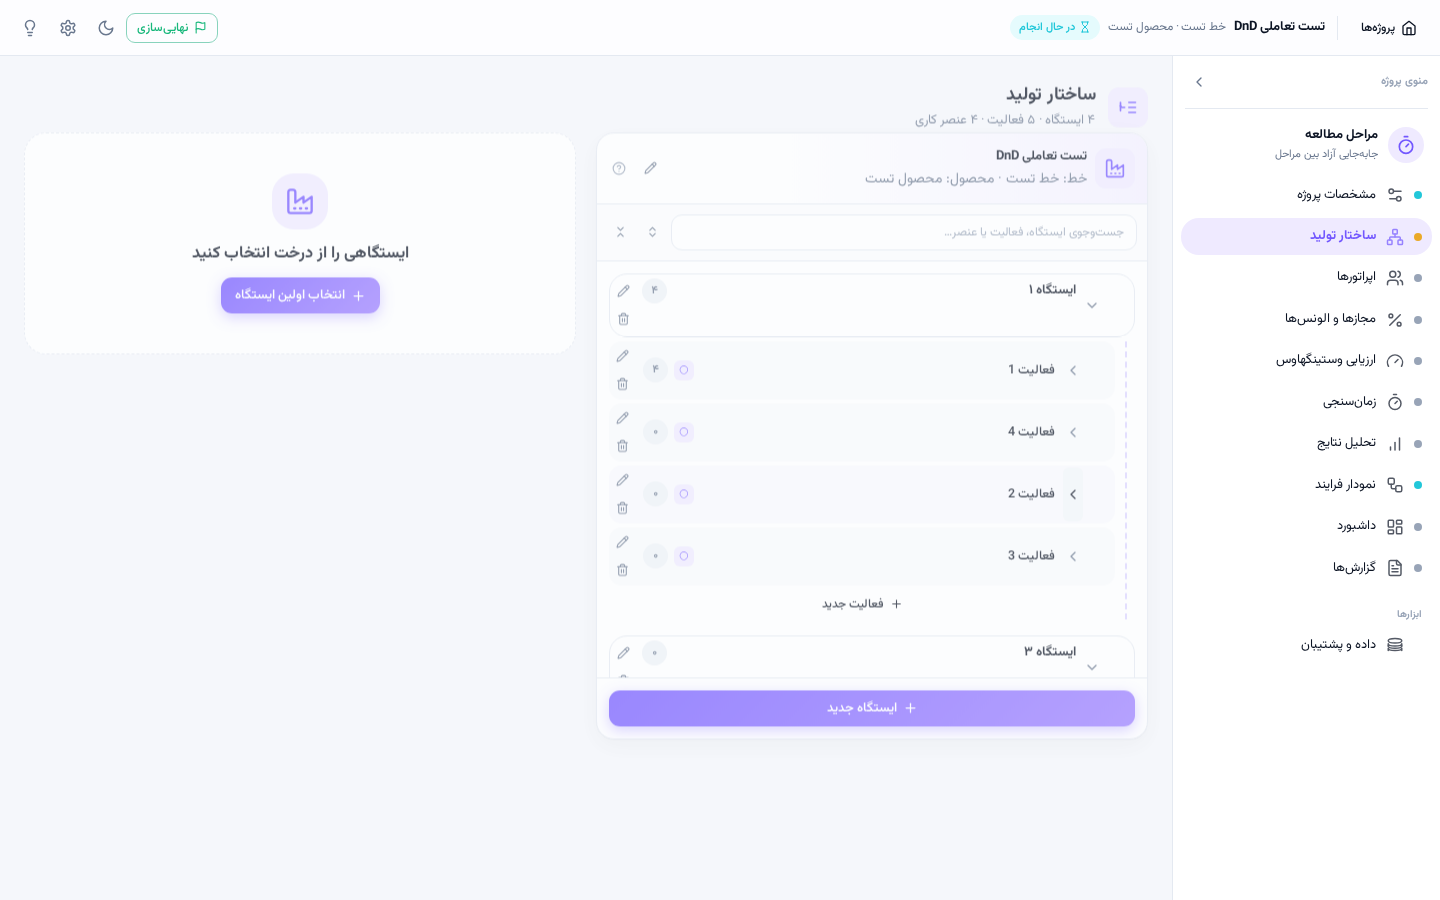
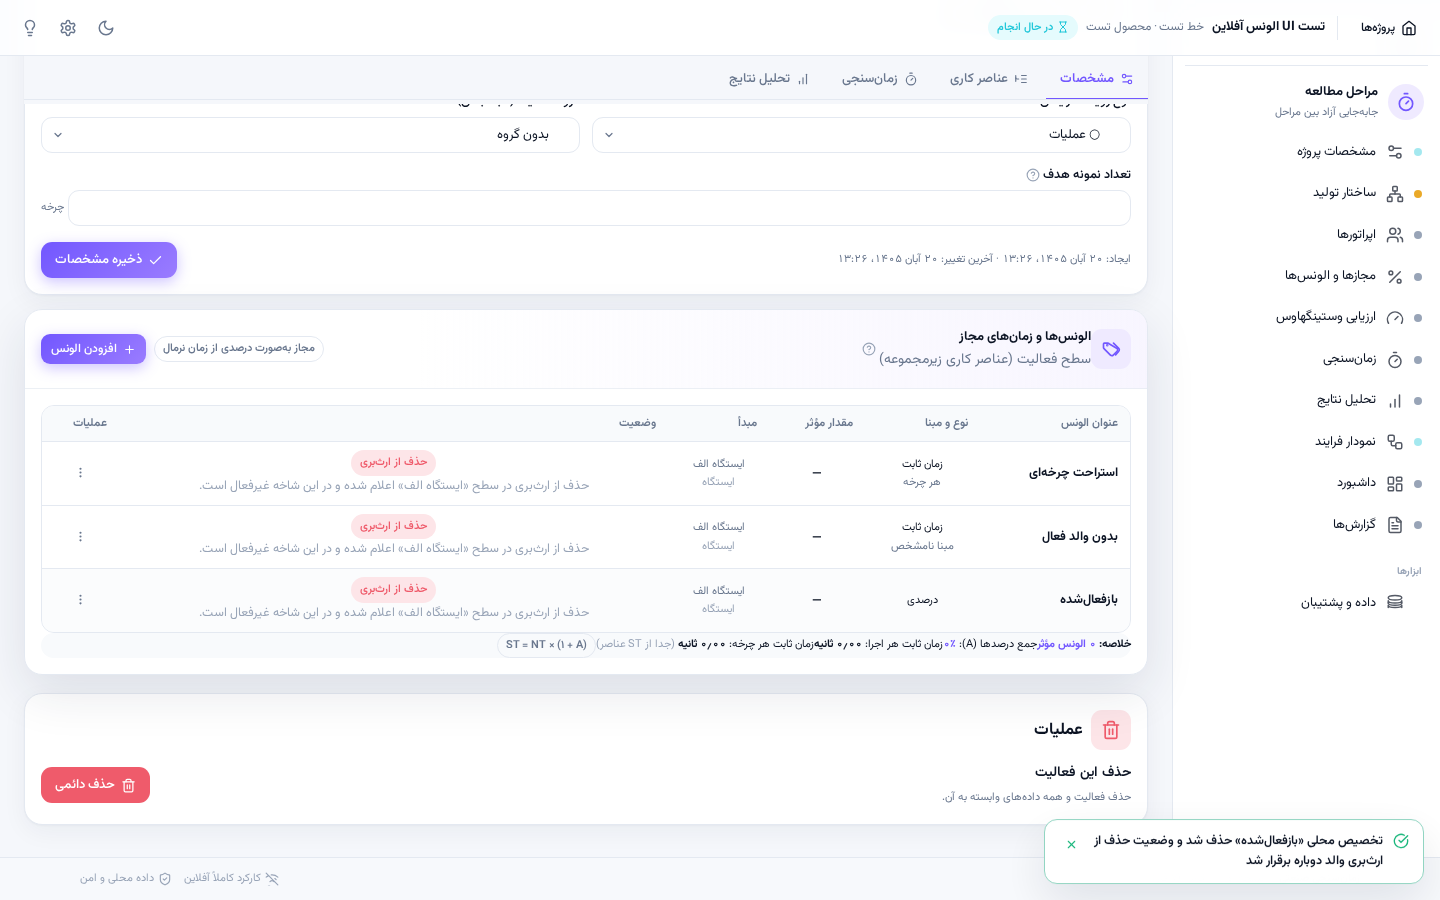
تست تعاملی DnD: بخش D9 — راستیآزمایی DOM آفلاین برچسب مبنا و متن Restore (۶۰ آزمون)

diff --git a/scripts/test-dnd-interactive.js b/scripts/test-dnd-interactive.js
@@ -19,6 +19,8 @@
      D7  حفظ ترتیب پس از Refresh کامل صفحه
      D8  رفتار درست در زمان فعال بودن جستوجو (§۴):
          قفل سه سطح + راهنما + بدون sortOrder تکراری + بازگشت ترتیب
+     D9  UI آفلاین الونسها (§۳/§۵): برچسب مبنا در ردیفهای EXCLUDED
+         (هر چرخه / مبنا نامشخص) + متن منوی Restore والد-EXCLUDE + اجرای آن
 
    نکته: بین بخشها «بازچینش آزمایشی» فقط ابزار setup است (مثل ساخت fixture)؛
    خود سناریوها و Assertionها صرفاً با رویدادهای واقعی مرورگر اجرا میشوند.
@@ -451,6 +453,80 @@ const sleep = (ms) => new Promise((r) => setTimeout(r, ms));
     await gotoStructure();
     const afterReload = await orderOf('station');
     ok(JSON.stringify(afterReload) === JSON.stringify(final), 'D8n. ترتیب پس از Refresh مجدد نیز پایدار است', afterReload.map((id) => fx.stations.indexOf(id) + 1));
+  }
+
+  // ═══ D9 — UI آفلاین: برچسب مبنا EXCLUDED + متن Restore (§۳/§۵) ═══
+  console.log('\n── D9 UI آفلاین الونسها — مبنا و متن Restore ──');
+  {
+    // fixture: والد PER_CYCLE → EXCLUDE؛ بدون والد (پیشفرض مرکزی) → EXCLUDE؛ والد EXCLUDE + فرزند SET
+    const alw = await page.evaluate(() => {
+      const p = T2DB.createProject({ name: 'تست UI الونس آفلاین', lineName: 'خط تست', productName: 'محصول تست' });
+      const pid = p.id ?? p.project?.id;
+      const s = T2DB.createStation(pid, { name: 'ایستگاه الف' });
+      const sid = s.id ?? s.station?.id;
+      const a = T2DB.createActivity(sid, { name: 'فعالیت الف' });
+      const aid = a.id ?? a.activity?.id;
+      const mk = (r) => r.id ?? r.definition?.id;
+      const d1 = mk(T2DB.createAllowanceDefinition(pid, { title: 'استراحت چرخهای', defaultValueType: 'FIXED_TIME', defaultTimeSeconds: 300, isActive: true, sortOrder: 0 }));
+      const d2 = mk(T2DB.createAllowanceDefinition(pid, { title: 'بدون والد فعال', defaultValueType: 'FIXED_TIME', defaultTimeSeconds: 20, isActive: true, sortOrder: 1 }));
+      const d3 = mk(T2DB.createAllowanceDefinition(pid, { title: 'بازفعالشده', defaultValueType: 'PERCENT', defaultValuePercent: 0.05, isActive: true, sortOrder: 2 }));
+      return { pid, sid, aid, d1, d2, d3 };
+    });
+    await page.evaluate((f) => {
+      T2DB.putScopeAllowanceOps('PROJECT', f.pid, [
+        { definitionId: f.d1, action: 'SET', valueType: 'FIXED_TIME', timeValueSeconds: 300, applicationBasis: 'PER_CYCLE' },
+        { definitionId: f.d3, action: 'SET', valueType: 'PERCENT', percentValue: 0.05 },
+      ]);
+      T2DB.putScopeAllowanceOps('STATION', f.sid, [
+        { definitionId: f.d1, action: 'EXCLUDE' },
+        { definitionId: f.d2, action: 'EXCLUDE' },
+        { definitionId: f.d3, action: 'EXCLUDE' },
+      ]);
+      T2DB.putScopeAllowanceOps('ACTIVITY', f.aid, [
+        { definitionId: f.d3, action: 'SET', valueType: 'PERCENT', percentValue: 0.07 },
+      ]);
+    }, alw);
+
+    await page.evaluate((h) => { location.hash = h; }, '#/p/' + alw.pid + '/activity/' + alw.aid);
+    await page.waitForSelector('section[aria-label="الونسها و زمانهای مجاز"] table', { timeout: 10000 });
+
+    const cellsOf = (title) => page.evaluate((t) => {
+      const rows = Array.from(document.querySelectorAll('section[aria-label="الونسها و زمانهای مجاز"] table tr'));
+      for (const tr of rows) {
+        const tds = Array.from(tr.querySelectorAll('td'));
+        if (tds.length && tds[0].textContent.indexOf(t) >= 0) return tds.map((td) => td.textContent.trim().replace(/\s+/g, ' '));
+      }
+      return null;
+    }, title);
+
+    const r1 = await cellsOf('استراحت چرخهای');
+    ok(Boolean(r1) && r1[1].indexOf('هر چرخه') >= 0 && r1[1].indexOf('هر اجرا') === -1, 'D9a. EXCLUDED با والد PER_CYCLE: «زمان ثابت — هر چرخه» (نه «هر اجرا»)', r1 && r1[1]);
+    const r2 = await cellsOf('بدون والد فعال');
+    ok(Boolean(r2) && r2[1].indexOf('مبنا نامشخص') >= 0 && r2[1].indexOf('هر اجرا') === -1, 'D9b. EXCLUDED با پیشفرض مرکزی و بدون والد: «مبنا نامشخص» (نه «هر اجرا»)', r2 && r2[1]);
+    const r3 = await cellsOf('بازفعالشده');
+    ok(Boolean(r3) && r3[1] === 'درصدی' && r3[2].indexOf('۷٪') >= 0, 'D9c. بازفعالسازی فرزند روی والد EXCLUDE: درصدی ۷٪ فعال', r3 && r3.slice(0, 3));
+
+    // منوی عملیات ردیف بازفعالشده → متن Restore جدید
+    await page.click('button[aria-label="عملیات الونس بازفعالشده"]');
+    await page.waitForSelector('.dd-menu [role="menuitem"]', { timeout: 5000 });
+    const restoreLabel = await page.evaluate(() => {
+      const items = Array.from(document.querySelectorAll('.dd-menu [role="menuitem"]'));
+      return items.map((b) => b.textContent.trim()).find((t) => t.indexOf('بازگردانی') >= 0) || null;
+    });
+    ok(restoreLabel === 'بازگردانی به وضعیت والد (حذف تخصیص محلی)', 'D9d. متن منوی Restore والد-EXCLUDE: عبارت جدید', restoreLabel);
+
+    // اجرای Restore → حذف تخصیص محلی + وضعیت EXCLUDED والد + toast
+    await page.click('.dd-menu [role="menuitem"]:last-child');
+    await page.waitForFunction(() => {
+      const toasts = Array.from(document.querySelectorAll('.toast, [class*="toast"]'));
+      return toasts.some((t) => t.textContent.indexOf('وضعیت حذف از ارثبری والد دوباره برقرار شد') >= 0);
+    }, null, { timeout: 5000 }).catch(() => null);
+    const r3b = await cellsOf('بازفعالشده');
+    ok(Boolean(r3b) && r3b[2] === '—', 'D9e. پس از Restore: مقدار حذف و EXCLUDED والد دوباره برقرار', r3b && r3b[2]);
+    const stAssign = await page.evaluate((f) => T2DB.getState().allowanceAssignments.find((a) => a.definitionId === f.d3 && a.scopeType === 'STATION' && a.scopeId === f.sid), alw);
+    const actAssign = await page.evaluate((f) => T2DB.getState().allowanceAssignments.find((a) => a.definitionId === f.d3 && a.scopeType === 'ACTIVITY' && a.scopeId === f.aid), alw);
+    ok(Boolean(stAssign) && stAssign.mode === 'EXCLUDE' && !actAssign, 'D9f. تخصیص EXCLUDE والد دستنخورده + تخصیص محلی حذف شد', { st: stAssign && stAssign.mode, act: Boolean(actAssign) });
+    await page.screenshot({ path: path.join(SHOT_DIR, 'off-allowances-basis-restore.png'), fullPage: false });
   }
 
   // ═══ خطای صفر جاوااسکریپت ═══
